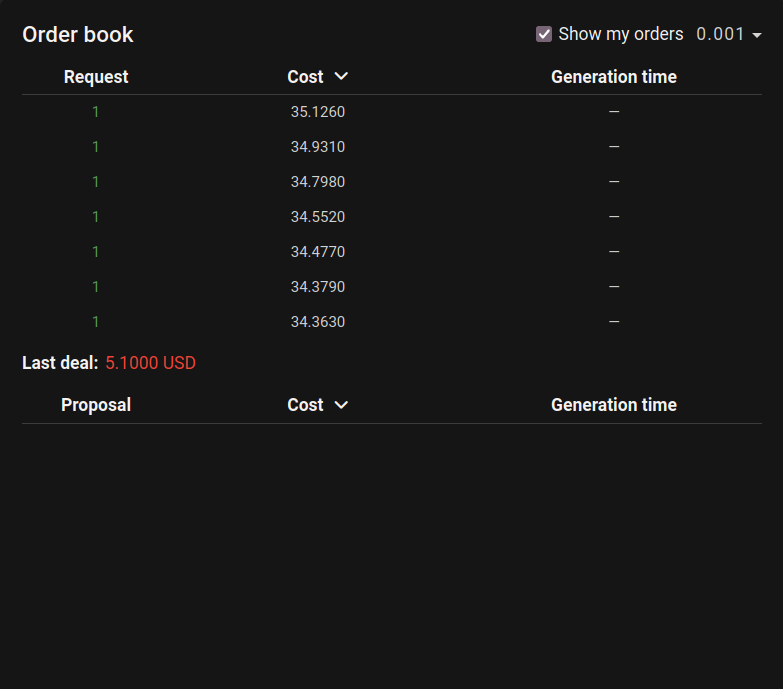
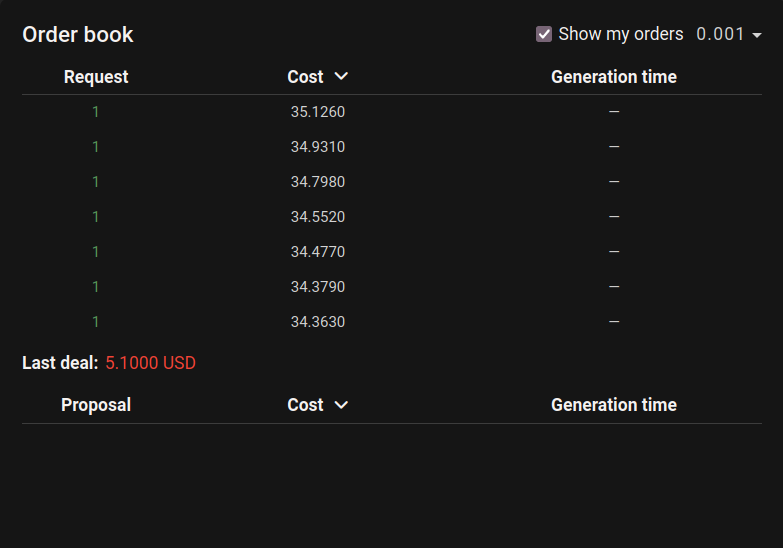
docs: updates for the Web interface
Minor fixes: edited images - removed unnecessary space, renamed frontend
in the summary page and fixed typos

diff --git a/gitbook-docs/market/overview.md b/gitbook-docs/market/overview.md
@@ -17,7 +17,7 @@ to buy and sell future values of Bitcoin via perpetual contracts.
 These are called derivative markets, as you do not own the underlying instrument
 but are just speculating on its price.
 
-`\=nil;` Proof Market belongs to the class of spot markets and is designed
+`=nil;` Proof Market belongs to the class of spot markets and is designed
 as a decentralized and distributed system.
 
 ## Circuits and statements

diff --git a/gitbook-docs/SUMMARY.md b/gitbook-docs/SUMMARY.md
@@ -17,7 +17,7 @@
   * [Circuit Developer](market/user-guides/circuit-developer.md)
   * [Proof Requester](market/user-guides/proof-requester.md)
   * [Proof Producer](market/user-guides/proof-producer.md)
-* [Front End](market/front-end.md)
+* [Web interface](market/front-end.md)
 * [CMD Reference](market/cmd-reference/README.md)
   * [user](market/cmd-reference/user.md)
   * [statement](market/cmd-reference/statement.md)
